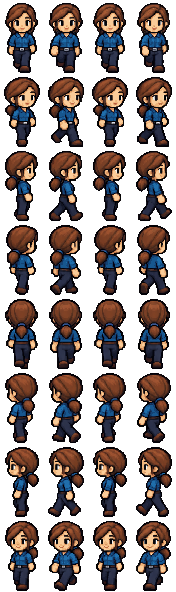
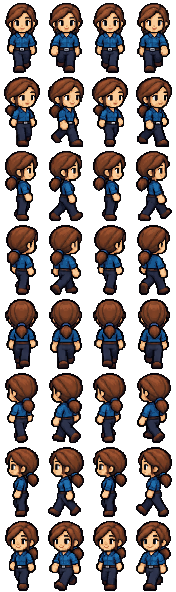
v40.15: ciclo de caminata de ella con el arte de su propio atlas
- Cuadro 0 con el paso del otro pie (S, SE, NE, N, NO, SO) y, de frente, zancada del cuadro 3 del otro lado: ya no cojea.
- Mitad de arriba intacta; la de abajo, en espejo de su propia vista (nunca un frente volteado como espalda). Perfil sin tocar.
- scripts/build-ciclo-femenino.mjs (idempotente) y test/ciclo-femenino.test.mjs.
- Café con anclaje propio en los cuatro cuadros (scripts/calcula-cafe.mjs).

Claude-Session: https://claude.ai/code/session_019Fo2tZVZXrVgMWLNzj5gVe

diff --git a/js/sprite.js b/js/sprite.js
@@ -407,14 +407,14 @@ const ACC_CORONA = (()=>{
    sube y baja con ella en la marcha. Lado +1: la taza queda a la derecha de la mano; -1, a la izquierda. El vapor cambia con el paso. */
 const ACC_CAFE = (()=>{
   const K='#101326',C={b:'#5a2e1c',h:'#ffead0',c:'#d9a66d',d:'#9c623d',v:'#cfe6f2'};
-  const T={"masculina":{"caminar":[[[1,32,36,51]],[[1,32,35,50]],[[1,17,23,52]],[[1,26,33,52]],[[1,31,36,52]],[[-1,9,16,52]],[[-1,20,26,53]],[[-1,7,11,51]]],"portada":[[1,32,36,51],[1,32,36,51],[-1,6,11,51],[-1,6,11,51]]},"femenina":{"caminar":[[[1,31,34,54],[1,30,34,51],[1,31,33,51]],[[1,30,32,50],[1,30,34,51],[1,30,34,50]],[[1,24,30,54],[1,24,31,52],[1,25,32,54]],[[1,28,34,54],[1,28,33,51],[1,27,33,54]],[[1,30,35,53],[1,30,34,51],[1,30,34,52]],[[-1,9,16,54],[-1,9,15,52],[-1,7,14,54]],[[-1,22,28,54],[-1,14,20,53],[-1,15,21,53]],[[-1,8,14,53],[-1,10,14,51],[-1,6,12,53]]],"portada":[[1,30,34,52],[1,30,34,52],[1,30,32,51],[-1,7,11,51]]}};
+  const T={"masculina":{"caminar":[[[1,32,36,51]],[[1,32,35,50]],[[1,17,23,52]],[[1,26,33,52]],[[1,31,36,52]],[[-1,9,16,52]],[[-1,20,26,53]],[[-1,7,11,51]]],"portada":[[1,32,36,51],[1,32,36,51],[-1,6,11,51],[-1,6,11,51]]},"femenina":{"caminar":[[[1,30,34,53],[1,31,34,54],[1,30,34,51],[1,29,35,54]],[[1,30,34,51],[1,30,32,50],[1,30,34,51],[1,30,34,50]],[[1,24,31,52],[1,24,30,54],[1,24,31,52],[1,25,32,54]],[[1,27,33,52],[1,28,34,54],[1,28,33,51],[1,27,33,54]],[[1,30,34,50],[1,30,35,53],[1,30,34,51],[1,30,34,52]],[[-1,9,14,51],[-1,9,16,54],[-1,9,15,52],[-1,7,14,54]],[[-1,14,20,53],[-1,22,28,54],[-1,14,20,53],[-1,15,21,53]],[[-1,10,14,51],[-1,8,14,53],[-1,10,14,51],[-1,6,12,53]]],"portada":[[1,30,34,52],[1,30,34,52],[1,30,32,51],[-1,7,11,51]]}};
   // taza de 11×10 con el asa a la izquierda (lado +1) y el hueco del asa abierto para que se vea la mano; el lado -1 la dibuja del otro lado
   const TAZA=['...KKKKKKKK','...KbbbbbbK','...KhccccdK','.KKKhccccdK','.K.KhccccdK','.K.KhccccdK','.K.KhccccdK','.KKKhccccdK','...KccccddK','....KKKKKK.'];
   const VAPOR=[[[5,-1],[5,-2],[8,-2]],[[6,-1],[6,-2],[5,-3]],[[7,-1],[7,-2],[8,-3]],[[5,-1],[6,-2],[6,-3]]];
   function ancla(ap,dir,paso,pose=-1){
     const f=ap==='femenina'?'femenina':'masculina',t=T[f];
     if(pose>=0)return t.portada[((pose%4)+4)%4];
-    return t.caminar[((dir%8)+8)%8][f==='femenina'?((((paso%4)+4)%4)||2)-1:0];
+    return t.caminar[((dir%8)+8)%8][f==='femenina'?((paso%4)+4)%4:0];
   }
   function caja(ap,dir,paso,pose=-1){
     const [lado,hx0,hx1,hy1]=ancla(ap,dir,paso,pose),hc=Math.round((hx0+hx1)/2);

diff --git a/js/datos.js b/js/datos.js
@@ -20,8 +20,11 @@
    (v21.1, v21.2…). Antes cada publicación subía uno (llegó a v44); se
    renumeró todo con esta regla y la equivalencia vieja → nueva está en
    VERSIONES.md, porque los mensajes de commit conservan los números viejos. */
-const VERSION='v40.14';
+const VERSION='v40.15';
 const NOVEDADES=[
+  {v:'v40.15', fecha:'2026-11-17',
+   es:['La aprendiz camina mejor: de frente, de espaldas y en diagonal el paso del cuadro 0 y la zancada de frente usan ahora el otro pie, así que ya no cojea y el ciclo alterna de verdad. Ella, sus accesorios y el café se ven igual que antes.'],
+   en:['The female apprentice walks better: facing front, back and on the diagonals, frame 0 now steps with the other foot, and the front stride swaps feet, so she no longer limps and the cycle really alternates. Her look, accessories and mug stay the same.']},
   {v:'v40.14', fecha:'2026-11-17',
    es:['Retoques visuales del aprendiz: los ojos y la boca de los retratos de 32 se ven más claros, la diadema de los audífonos de perfil es una sola, y en Mi Avatar el personaje se queda quieto de frente (sin pierna levantada) y vuelve a esa pose al detener la caminata.'],
    en:['Visual touch-ups for the apprentice: the eyes and mouth of the 32px portraits read more clearly, the headphone band in profile is a single band, and in My Avatar the character stands still facing front (no raised leg) and returns to that pose when the walk stops.']},

diff --git a/sw.js b/sw.js
@@ -4,7 +4,7 @@
 /* Va a la par con VERSION de js/datos.js: scripts/validar.mjs falla si se
    separan, porque entonces el juego enseñaría unas novedades y la caché
    serviría otra versión. */
-const CACHE = 'pa4-v40.14';
+const CACHE = 'pa4-v40.15';
 /* Cuánto se espera a la red antes de servir la copia guardada. Con "red
    primero" a secas, una conexión mala (la del aula, un 3G flojo) dejaba cada
    archivo colgado hasta que el navegador se rindiera, aunque estuviera en

diff --git a/planes/identidad.md b/planes/identidad.md
@@ -209,7 +209,16 @@ Una revisión independiente de v40.13 (parche aplicado tal cual, con comparativa
 - **Retratos de 32×32:** los mapas de ojos normal, feliz, enojado y preocupado llevan blanco a ambos lados del iris; se retira la pestaña lateral de la versión femenina y se simplifica la boca normal. El arte se regenera siempre con `scripts/build-retratos-protagonistas.mjs`, nunca a mano.
 - **Audífonos de perfil (E/O):** el arco conserva solo la rama visible desde la copa hasta la parte superior; antes se dibujaba una segunda varilla falsa sobre el pelo. Las otras seis direcciones y las poses de portada no cambian.
 - **Reposo frontal:** en Mi Avatar y en las tarjetas de apariencia y camisa, el personaje quieto de frente usa la pose de portada (`peDibujaCuerpo`) y no el cuadro 0 de marcha, que en la aprendiz dejaba una pierna levantada. La clave de repintado incluye el estado de movimiento, así que al detener la caminata el visor vuelve al reposo.
-- **Pendiente, a propósito:** las otras siete direcciones quietas siguen usando el cuadro 0 de marcha (hace falta un atlas de reposo de 8 direcciones), y el atlas femenino sigue con los cuadros 0 y 2 iguales (decisión de v40.6) hasta una entrega específica de animaciones. La pose de portada y la de marcha son dibujos distintos y se nota el cambio al empezar a andar.
+- **Pendiente, a propósito:** las otras siete direcciones quietas siguen usando el cuadro 0 de marcha (hace falta un atlas de reposo de 8 direcciones). La pose de portada y la de marcha son dibujos distintos y se nota el cambio al empezar a andar. Lo del ciclo femenino (cuadros 0 y 2 iguales) se resolvió en v40.15.
+
+## Ciclo de caminata de ella (v40.15)
+
+Desde v40.6 el cuadro 0 de su atlas era una copia del 2 (la pose de paso), así que el ciclo repetía el mismo paso con el mismo pie levantado, y de frente (S) las dos zancadas levantaban también el mismo pie: ella «cojeaba». Sin IA y con el arte del propio atlas (`scripts/build-ciclo-femenino.mjs`, idempotente, corre después de `build-caras-cuerpo.mjs`):
+
+- **Qué cambia:** el cuadro 0 pasa a ser el paso del otro pie en S, SE, NE, N, NO y SO, y de frente el cuadro 3 es la zancada del otro lado. El perfil (E, O) no se toca: allí las dos piernas son del mismo color y el ciclo ya se lee; en los tres cuartos las zancadas ya alternaban lo bastante.
+- **Cómo:** la mitad de arriba (cabeza, pelo, hombros) es la de siempre, así que los anclajes de gafas, audífonos, gorra y corona siguen valiendo; desde una fila de corte del pecho (la que mejor encaja, fija en el script) hacia abajo se usa la mitad de abajo en espejo de su propia vista (S con S, N con N, SE con SO, NE con NO). Nunca se voltea una vista por otra: la espalda no sale de un frente.
+- **Café:** su tabla de anclaje tiene ahora cuatro cuadros por dirección para ella (`scripts/calcula-cafe.mjs`), porque la mano cambia en el 0 y en el 3 de frente. Corbata, medalla, capa, gafas, audífonos, gorra y corona se comprobaron sobre los cuadros nuevos sin cambios.
+- **Pruebas:** `test/ciclo-femenino.test.mjs` (el atlas sale del script y es idempotente, la cabeza del 0 es la del 2, la mitad de abajo es el espejo de su fuente, el pie levantado alterna, la taza cae sobre una mano en cada cuadro).
 
 ## Fuera de esta parte
 

diff --git a/VERSIONES.md b/VERSIONES.md
@@ -107,6 +107,7 @@ deja cambiarlos). Esta tabla es la equivalencia.
 | **v40.12** | — | 2026-11-17 | Retratos, fase 6: los nueve accesorios de los retratos de 16, 32 y 48 siguen el arte nuevo del cuerpo (gafas transparentes, gorra con visera, corona con puntas y gema, capa con mantón y broche, medalla con cinta en V, taza de barro con vapor y el gato del acompañante recortado y reducido); `scripts/lib-accesorios-retrato.mjs` |
 | **v40.13** | — | 2026-11-17 | Integración completa, fase 7: el retrato propio de la sala de clase (lista y podio) usa el retrato del protagonista con sus accesorios; caso de regresión «cada accesorio en cada pantalla» (2 apariencias × 9 accesorios × portada, Mi Avatar, pasillo y diálogos); herramienta `scripts/galeria-avatar.html` (galería de aceptación con el renderizador real) |
 | **v40.14** | — | 2026-11-17 | Corrección visual tras la revisión externa de v40.13: ojos y boca de los retratos de 32×32 (blanco a ambos lados del iris, sin pestaña lateral, boca normal simplificada), diadema de los audífonos de perfil con una sola rama, reposo frontal con la pose de portada en Mi Avatar y tarjetas de apariencia y camisa, y el visor se repinta al detener la caminata; no toca atlas ni los demás accesorios |
+| **v40.15** | — | 2026-11-17 | Ciclo de caminata de ella con el arte de su propio atlas: el cuadro 0 pasa a ser el paso del otro pie (S, SE, NE, N, NO, SO) y de frente la zancada del cuadro 3 alterna con la del 1, con la mitad de arriba intacta y la de abajo en espejo de su propia vista; café con anclaje propio en los cuatro cuadros; `scripts/build-ciclo-femenino.mjs`, `test/ciclo-femenino.test.mjs` |
 
 La v11 vieja no existió: se pasó de la v10 a la v12.
 
